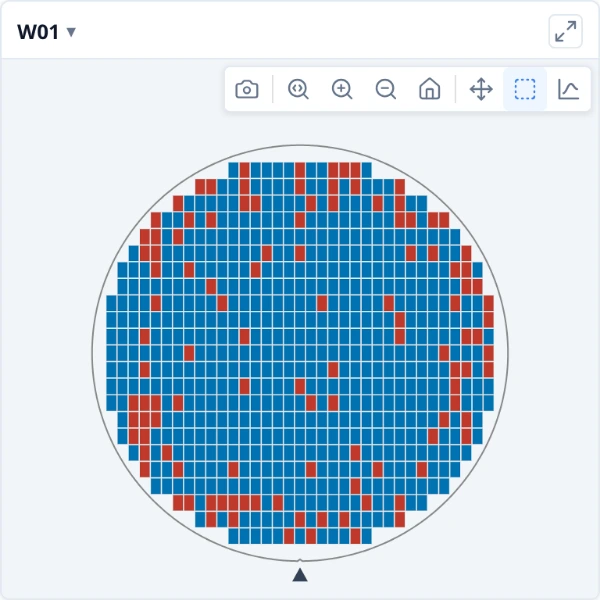
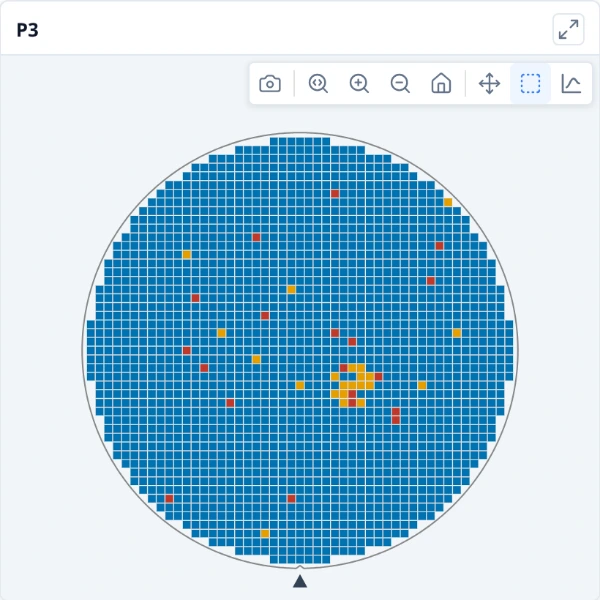
Pick the only match with Enter in a long test list
Typing in the filter box of a long test list until one test remains and pressing Enter now chooses it. The generated UI surface and the screenshot script follow the PAT verdict mode, and the PAT verdict thumbnail shows outliers.

diff --git a/packages/canvas-adapter/toolbar.ts b/packages/canvas-adapter/toolbar.ts
@@ -1393,11 +1393,15 @@ export function metadataModeEntry(field: MetadataFieldDef): ModeEntry {
  * get the same filter-as-you-type box instead of building it twice.
  *
  * `onFilter` receives the lowercased query on every keystroke; the caller
- * owns showing/hiding its own rows. Autofocuses on mount. Click/keydown are
+ * owns showing/hiding its own rows. Enter picks the only row left showing, when `visibleRows` is given. Autofocuses on mount. Click/keydown are
  * stopped from bubbling so typing (including Space/arrow keys) lands in the
  * input rather than triggering the host menu's own keyboard navigation.
  */
-export function makeMenuSearchBox(onFilter: (query: string) => void, placeholder = 'Filter…', ownerDocument: Document = document): HTMLInputElement {
+export function makeMenuSearchBox(
+  onFilter: (query: string) => void, placeholder = 'Filter…', ownerDocument: Document = document,
+  /** The rows still showing: when Enter is pressed with exactly one, it is picked. */
+  visibleRows?: () => HTMLElement[],
+): HTMLInputElement {
   const input = ownerDocument.createElement('input');
   input.type = 'text';
   input.placeholder = placeholder;
@@ -1422,7 +1426,12 @@ export function makeMenuSearchBox(onFilter: (query: string) => void, placeholder
   } as Partial<CSSStyleDeclaration>);
   input.addEventListener('click', e => e.stopPropagation());
   input.addEventListener('mousedown', e => e.stopPropagation());
-  input.addEventListener('keydown', e => e.stopPropagation());
+  input.addEventListener('keydown', e => {
+    e.stopPropagation();
+    if (e.key !== 'Enter' || !visibleRows) return;
+    const rows = visibleRows();
+    if (rows.length === 1) { e.preventDefault(); rows[0].click(); }
+  });
   input.addEventListener('input', () => onFilter(input.value.trim().toLowerCase()));
   // Native outline suppressed above (it's clipped by the menu's own border-
   // radius/overflow) — replaced with a visible border-colour swap so keyboard
@@ -1569,7 +1578,7 @@ export function buildModeMenuEl(
             for (const row of testRows) {
               row.row.style.display = row.label.includes(query) ? '' : 'none';
             }
-          }, 'Filter tests…');
+          }, 'Filter tests…', undefined, () => testRows.filter(r => r.row.style.display !== 'none').map(r => r.row));
           // Sticky, not a separate non-scrolling wrapper — subMenu is itself
           // the scroll container (overflowY: auto above), so this keeps the
           // box visible while the rows beneath it scroll.

diff --git a/packages/canvas-adapter/charts/chartShell.ts b/packages/canvas-adapter/charts/chartShell.ts
@@ -1511,7 +1511,7 @@ export function makeListSelect(
       const searchBox = makeMenuSearchBox(query => {
         for (const r of rows) r.row.style.display = r.label.includes(query) ? '' : 'none';
         syncHeadings();
-      }, searchPlaceholder, ownerDocument);
+      }, searchPlaceholder, ownerDocument, visibleRows);
       // Contained: this z-index only has to beat its own siblings (the option
       // rows, which set none) INSIDE `menu`, and `menu` itself lives in
       // `menuLayerFor`'s shared elevated layer, so nothing outside this one

diff --git a/CHANGELOG.md b/CHANGELOG.md
@@ -33,6 +33,8 @@ under `### Breaking`.
 
 ### Changed
 
+- **Enter in a long list's filter box picks the only test left showing.** In the test pickers and the Plot mode menu's test list, typing
+  until one test remains and pressing Enter chooses it.
 - **Map the verdicts on the PAT card shows the maps in that mode** instead of opening them in a window, so the map's own yield,
   legend, selection and filter apply.
 
